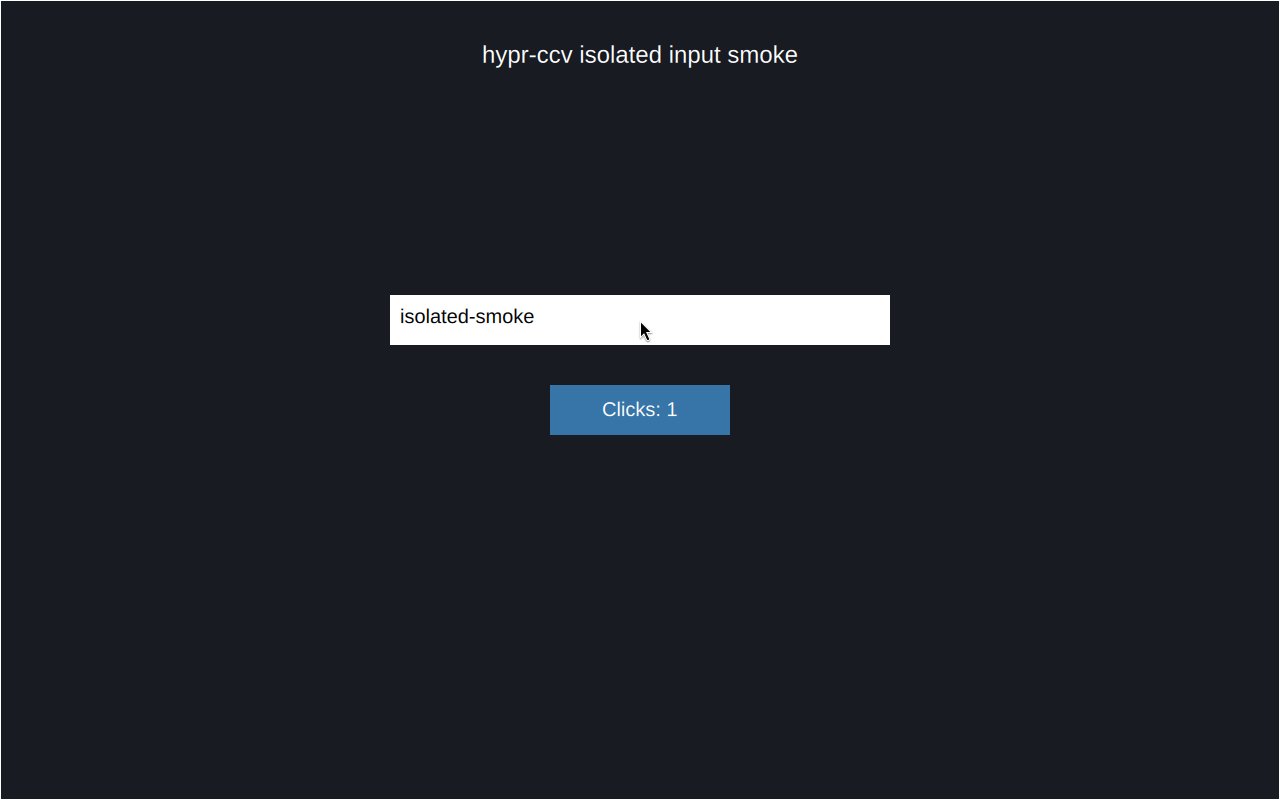
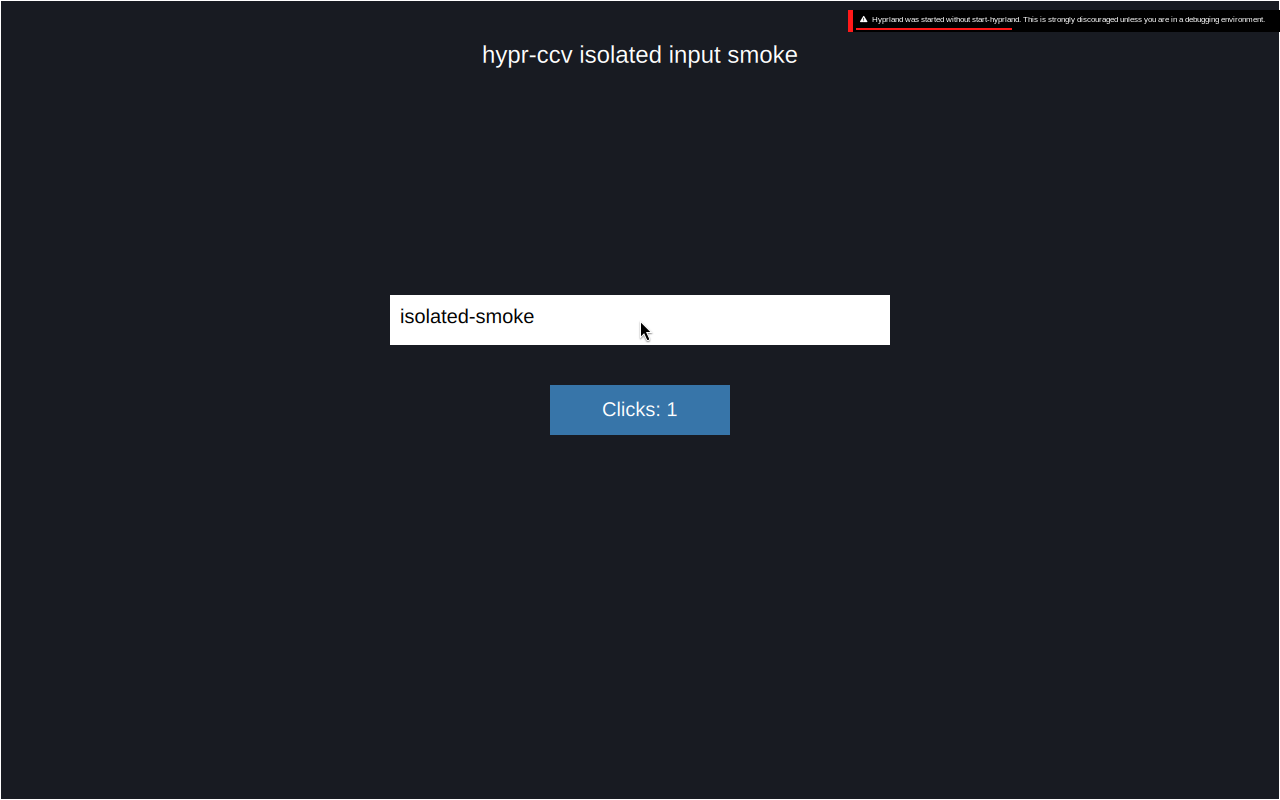
fix(hypr-ccv): shorten private runtime paths for Qt IPC

Changed region(s): [[0.6562, 0.0, 1.0, 0.0625]]

diff --git a/tests/gui-smoke.qml b/tests/gui-smoke.qml
@@ -1,6 +1,9 @@
 import QtQuick
 import Quickshell
+import Quickshell.Hyprland
 ShellRoot {
+  property int ipcMonitorCount: Hyprland.monitors.values.length
+  onIpcMonitorCountChanged: console.log("IPC_MONITORS=" + ipcMonitorCount)
   FloatingWindow {
     id: window
     onWidthChanged: ready.restart()

diff --git a/hypr-ccv/scripts/controller.py b/hypr-ccv/scripts/controller.py
@@ -92,7 +92,7 @@ def session_env(state):
     base = Path(state['directory'])
     env.update(HOME=str(base / 'home'), XDG_CONFIG_HOME=str(base / 'home/.config'),
                XDG_STATE_HOME=str(base / 'home/.local/state'), XDG_CACHE_HOME=str(base / 'home/.cache'),
-               XDG_DATA_HOME=str(base / 'home/.local/share'), XDG_RUNTIME_DIR=str(base / 'runtime'),
+               XDG_DATA_HOME=str(base / 'home/.local/share'), XDG_RUNTIME_DIR=session_runtime(state),
                CCV_SESSION_ID=state['id'], CCV_CONTROL_ROOT=str(base.parent), QT_QPA_PLATFORM='wayland', GDK_BACKEND='wayland',
                MOZ_ENABLE_WAYLAND='1')
     if state.get('signature'):
@@ -103,12 +103,38 @@ def session_env(state):
     return env
 
 
+def session_runtime(state):
+    return state.get('runtimeAlias', str(Path(state['directory']) / 'runtime'))
+
+
+def create_runtime_alias(root, state):
+    # Hyprland adds its ~63-character instance signature to this prefix.
+    # A long profile path silently truncates AF_UNIX addresses in Hyprland,
+    # while Qt uses the full path and cannot connect. Keep profiles in place.
+    alias = Path(tempfile.mkdtemp(prefix='v', dir=root.parents[1]))
+    alias.rmdir()
+    alias.symlink_to(Path(state['directory']) / 'runtime', target_is_directory=True)
+    state['runtimeAlias'] = str(alias)
+
+
+def validate_runtime_alias(state):
+    if 'runtimeAlias' not in state:
+        return
+    alias = Path(state['runtimeAlias'])
+    base = Path(state['directory'])
+    if (alias.parent != base.parents[2] or not re.fullmatch(r'v[a-z0-9_]{8}', alias.name)
+            or not alias.is_symlink() or alias.lstat().st_uid != os.getuid()
+            or alias.resolve() != (base / 'runtime').resolve()):
+        raise RuntimeError('Private runtime alias changed; preserve it and inspect the session')
+
+
 def load(root, require_ready=True):
     path = root / 'state.json'
     if not path.exists():
         raise RuntimeError('Sandbox is not running; use hypr-ccv start')
     state = json.loads(path.read_text())
     if require_ready:
+        validate_runtime_alias(state)
         if state['phase'] != 'ready' or not alive(state['processes']['hyprland']):
             raise RuntimeError('Sandbox is stale or initializing; inspect status/doctor, then restart')
         matches = json.loads(run(['hyprctl', 'instances', '-j'], session_env(state)))
@@ -139,7 +165,7 @@ def spawn(state, key, argv, env, root):
 
 def scoped_processes(state):
     """Only current-UID processes with the exact run marker and private runtime."""
-    expected_runtime = str(Path(state['directory']) / 'runtime')
+    expected_runtime = session_runtime(state)
     result = {}
     for entry in Path('/proc').iterdir():
         if not entry.name.isdigit() or int(entry.name) == os.getpid():
@@ -182,6 +208,9 @@ def stop(root):
     time.sleep(.1)
     if any(tick is not None and identity(pid)==tick for pid,tick in scoped_processes(state).items()):
         raise RuntimeError('Owned processes remain; state retained for doctor/retry')
+    validate_runtime_alias(state)
+    if 'runtimeAlias' in state:
+        Path(state['runtimeAlias']).unlink()
     state['phase'] = 'stopped'
     save(root / 'last-session.json', state)
     (root / 'state.json').unlink()
@@ -227,8 +256,10 @@ def start(root, resolution, count):
              'processes':{}, 'resolution':resolution, 'outputs':[], 'hyprlandVersion':json.loads(version)}
     save(root / 'state.json', state)
     try:
+        create_runtime_alias(root, state)
+        save(root / 'state.json', state)
         env = session_env(state)
-        bus = f"unix:path={directory}/runtime/bus"
+        bus = f"unix:path={session_runtime(state)}/bus"
         spawn(state, 'dbus', ['dbus-daemon','--session','--nofork',f'--address={bus}'], env, root)
         wait_for(lambda:(directory / 'runtime/bus').is_socket(), 5)
         state['bus'] = bus
@@ -246,6 +277,11 @@ def start(root, resolution, count):
                 return None
         instance = wait_for(find_instance)
         state.update(signature=instance['instance'], display=instance['wl_socket'])
+        ipc_paths = [Path(session_runtime(state)) / 'hypr' / state['signature'] / name
+                     for name in ('.socket.sock', '.socket2.sock')]
+        if any(len(os.fsencode(path)) > 106 for path in ipc_paths):
+            raise RuntimeError('Private IPC exceeds Qt Unix socket path limit; use a shorter XDG_RUNTIME_DIR')
+        wait_for(lambda: all(path.is_socket() for path in ipc_paths))
         if Path(state['display']).name != state['display'] or not state['display'].startswith('wayland-'):
             raise RuntimeError('Unexpected Wayland socket name')
         save(root / 'state.json', state)
@@ -271,7 +307,7 @@ def start(root, resolution, count):
         if os.environ.get('CC_VNC','1')!='0':
             if not shutil.which('wayvnc'):
                 raise RuntimeError('Missing wayvnc; use CC_VNC=0 for keyboard-only testing')
-            state['vncSocket'] = str(directory / 'runtime/vnc.sock')
+            state['vncSocket'] = str(Path(session_runtime(state)) / 'vnc.sock')
             spawn(state,'wayvnc',['wayvnc','-u','-o',state['outputs'][0],state['vncSocket']],env,root)
             wait_for(lambda:Path(state['vncSocket']).is_socket(),5)
             client = pointer_module().RFBClient(unix_socket=state['vncSocket'])

diff --git a/tests/test_controller.py b/tests/test_controller.py
@@ -14,6 +14,33 @@ spec=importlib.util.spec_from_file_location('controller',Path(__file__).resolve(
 ccv=importlib.util.module_from_spec(spec); spec.loader.exec_module(ccv)
 
 class IsolationTests(unittest.TestCase):
+    def test_runtime_alias_routes_environment_and_removes_only_owned_link(self):
+        with tempfile.TemporaryDirectory() as tmp:
+            base=Path(tmp); root=base/'cc-vdisplay'/'test'; directory=root/'run-test'
+            (directory/'runtime').mkdir(parents=True)
+            state={'id':'ours','directory':str(directory),'phase':'ready','processes':{}}
+            ccv.create_runtime_alias(root,state)
+            alias=Path(state['runtimeAlias'])
+            self.assertEqual(alias.resolve(),directory/'runtime')
+            self.assertEqual(ccv.session_env(state)['XDG_RUNTIME_DIR'],str(alias))
+            (root/'state.json').write_text(json.dumps(state))
+            with patch.object(ccv,'scoped_processes',return_value={}): ccv.stop(root)
+            self.assertFalse(alias.is_symlink())
+            self.assertTrue((directory/'runtime').is_dir())
+
+    def test_stop_preserves_replaced_runtime_alias_and_state(self):
+        with tempfile.TemporaryDirectory() as tmp:
+            base=Path(tmp); root=base/'cc-vdisplay'/'test'; directory=root/'run-test'
+            (directory/'runtime').mkdir(parents=True)
+            state={'id':'ours','directory':str(directory),'phase':'ready','processes':{}}
+            ccv.create_runtime_alias(root,state)
+            alias=Path(state['runtimeAlias']);alias.unlink();alias.symlink_to(base)
+            (root/'state.json').write_text(json.dumps(state))
+            with patch.object(ccv,'scoped_processes',return_value={}):
+                with self.assertRaises(RuntimeError): ccv.stop(root)
+            self.assertEqual(alias.resolve(),base)
+            self.assertTrue((root/'state.json').exists())
+
     def test_environment_has_private_profiles_and_bus(self):
         state={'id':'run1','directory':'/private/run1','signature':'sandbox','display':'wayland-1','bus':'unix:path=/private/bus'}
         with patch.dict(os.environ,{'HOME':'/real/home','DISPLAY':':0','SSH_AUTH_SOCK':'/real/auth','DBUS_SESSION_BUS_ADDRESS':'unix:path=/real/bus'}):

diff --git a/tests/smoke.py b/tests/smoke.py
@@ -45,6 +45,12 @@ try:
         item=next((c for c in clients if c['pid']==pid),None)
         return item and ('READY='+'x'.join(map(str,item['size']))) in app_log()
     wait(rendered)
+    wait(lambda:'IPC_MONITORS=2' in app_log())
+    run('hypr','output','create','headless')
+    wait(lambda:'IPC_MONITORS=3' in app_log())
+    extra=next(m['name'] for m in json.loads(run('hypr','-j','monitors')) if m['name'] not in state['outputs'])
+    run('hypr','output','remove',extra)
+    wait(lambda:len(json.loads(run('hypr','-j','monitors')))==2)
     client=next(c for c in json.loads(run('hypr','-j','clients')) if c['pid']==pid)
     x=client['at'][0]+client['size'][0]//2
     y=client['at'][1]+client['size'][1]//2
@@ -67,6 +73,7 @@ finally:
     assert parent_monitors()==before,'parent geometry changed'
     assert checksum==(hashlib.sha256(config.read_bytes()).hexdigest() if config.exists() else None),'parent config changed'
     if state:
+        assert not Path(state['runtimeAlias']).is_symlink(), 'private runtime alias remained'
         for process in state['processes'].values():
             stat=Path(f'/proc/{process["pid"]}/stat')
             if stat.exists(): assert stat.read_text().rsplit(') ',1)[1].split()[0]=='Z','owned process remained alive'

diff --git a/hypr-ccv/references/lessons.md b/hypr-ccv/references/lessons.md
@@ -25,5 +25,6 @@ Evidence for L02–L06: `https://github.com/omacom/omarchy/pull/14533`, includin
 - **L11 — popup evidence:** On the physical desktop, `listPlugins` reported `active=false` while the display-settings layer was mapped. A capture after that layer closed exposed underlying applications. Use the compositor layer namespace and a fresh rendered capture to establish visibility; inspect every frame's opaque popup region before publication. The verified three-monitor recording contains only the 900×720 popup. Physical GUI Preview/timeout and Keep/reload passed; the exact original config was restored.
 - **L12 — alternate Qt runtime:** The official Qt 6.12 SDK's ICU libraries unpacked at the SDK root, separate from `lib/`; its binaries needed both paths in scoped `LD_LIBRARY_PATH`. Set a private `qt.conf` prefix and SDK plugin/QML paths, then verify the runner's reported Qt version. Production canvas/workspace fixtures passed with QtTest 6.12.0 (6 passed). Quickshell built against 6.11.2 explicitly warned that running it with 6.12.0 requires a rebuild; a version query alone does not establish a compatible GUI runtime.
 - **L13 — host wayvnc failure:** A separately launched wayvnc on the physical Hyprland 0.56.2 session disconnected with `not a valid new object id ... data_offer(n)` and `Failed to dispatch pending`. Cause remains unknown; this was outside the private hypr-ccv session. Stop the input chain and inspect backend state before retrying. In this authorized hardware test, an existing Wayland virtual-pointer helper worked after recomputing the full desktop bounds. Do not generalize that workaround to isolated sessions or use it without physical-desktop authorization.
+- **L14 — long private IPC paths (fixed):** The old runtime prefix produced a 142-byte Hyprland request path. Hyprland created a truncated socket name; `hyprctl` still answered, but Quickshell reported `ServerNotFoundError`. A 107-byte event path also failed in Qt. The controller now creates a short owned alias to the same private runtime, checks both full IPC paths at 106 bytes or fewer and waits for both sockets. Cleanup validates the alias target/owner and preserves a replaced link plus state. The live smoke verifies Quickshell monitor discovery **and** an output-added event (`IPC_MONITORS=2 → 3`), input, clipboard, capture and cleanup; 13 unit tests passed. Profiles and D-Bus remain private.
 
 Evidence: Omarchy PR #14533 physical/VM screenshots, rollback recordings and `docs/display-layout-validation.json`; local detailed artifacts under `omarchy-pr-validation-20261012`. Physical restore compared file bytes plus monitor geometry; VM Preview/timeout and Keep/reload used QMP mouse input.

diff --git a/hypr-ccv/SKILL.md b/hypr-ccv/SKILL.md
@@ -42,7 +42,7 @@ Resolve paths relative to this skill's installed location when the CLI is unavai
 
 ## Observe → act → verify
 
-1. Establish the target from `status` and `snapshot`. The controller discovers the compositor by its launched PID, preserves the returned `wl_socket` string and rejects missing/stale state. With multiple possible parents, set `CC_PARENT_SIG` explicitly. A successful process launch is not readiness.
+1. Establish the target from `status` and `snapshot`. The controller discovers the compositor by its launched PID, preserves the returned `wl_socket` string and rejects missing/stale state. Its short `runtimeAlias` points only to the private runtime so Qt can reach both Unix IPC sockets; use the exported environment rather than reconstructing a long runtime path. With multiple possible parents, set `CC_PARENT_SIG` explicitly. A successful process launch is not readiness.
 2. Inspect a fresh screenshot. For an app, wait for its mapped PID in `clients`; for a layer-shell popup, inspect `hypr -j layers` and the actual rendered controls. Click the observed target, then verify focus/text before typing. Choose pointer selection when tab order is unsettled.
 3. After a change, wait for the specific expected UI/runtime condition within a deadline, then capture again. Recompute monitor geometry after Preview, rotation or scaling. VNC coordinates are output-local; arbitrary virtual-desktop coordinates are not interchangeable. The pointer helper rejects out-of-bounds coordinates.
 4. On a failed action, stop the chain, inspect focus/geometry/logs, and change the hypothesis. After two failures of the same action, use a different verified route or report the blocker. Distinguish a CLI-driven check from a GUI-driven interaction.
